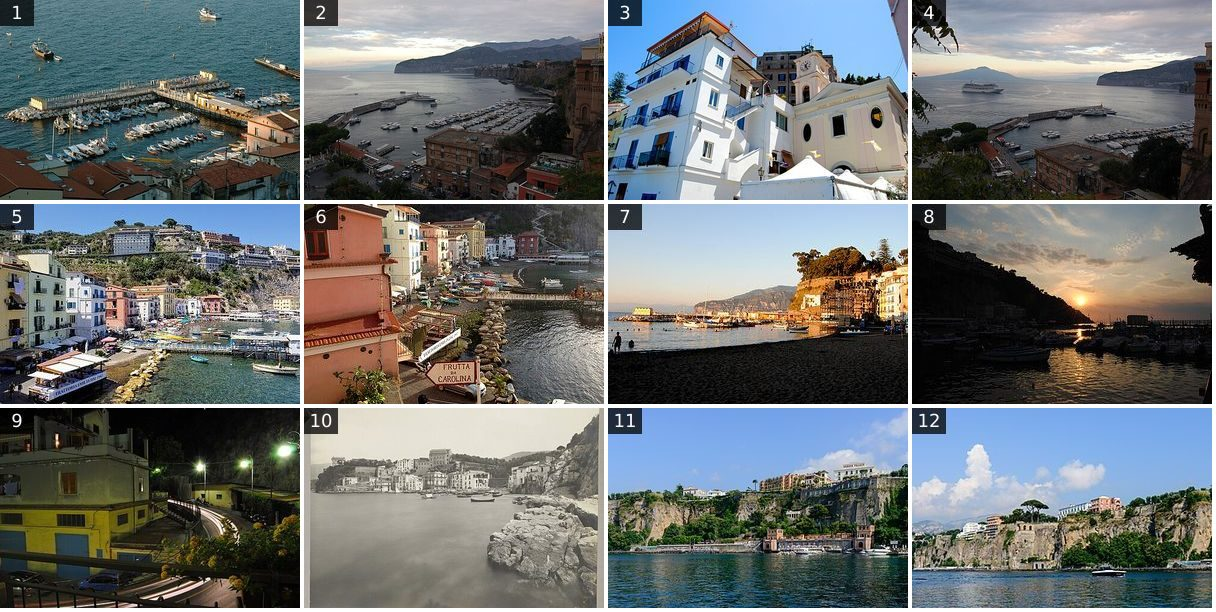
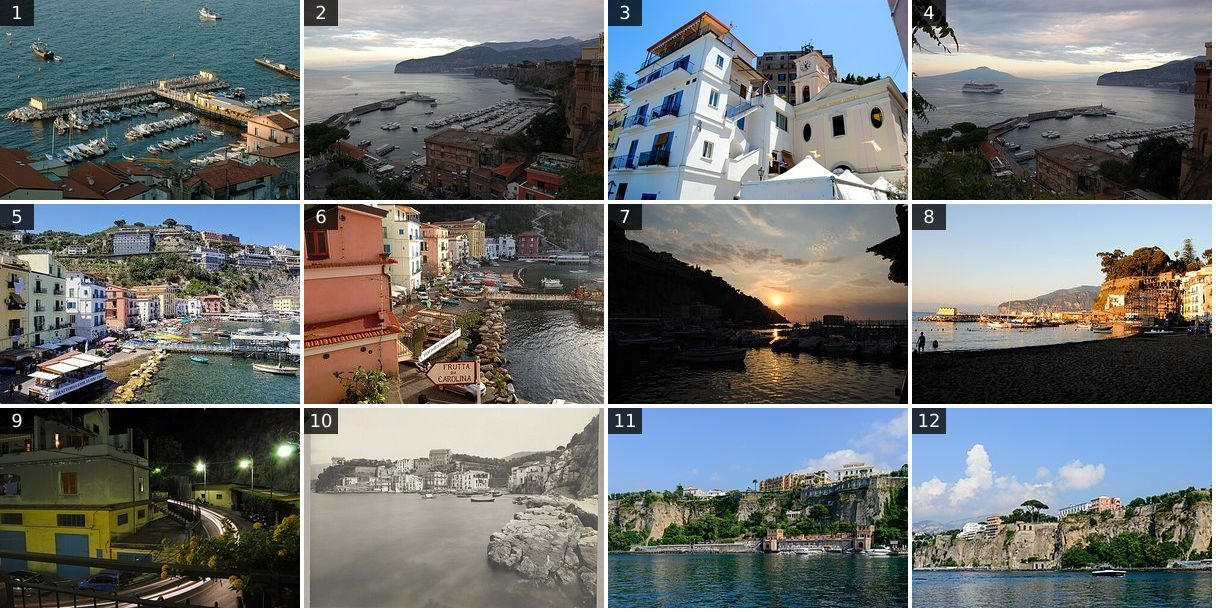
Point the site address at tandemroads.com (#83)
* Point the site address at tandemroads.com

The single-file build's share links, the daily health check, the README
and the runbook now use the custom domain.

Claude-Session: https://claude.ai/code/session_01QK6JCMSwZqRUFzqTtY74cD

* Cover photos: candidates (automated)

---------

Changed region(s): [[0.5, 0.3105, 1.0, 0.683]]

diff --git a/src/share.js b/src/share.js
@@ -3,7 +3,7 @@
 // places in those cities) is packed into the URL after #/t/, so there is no server and nothing
 // to sign up for. Notes, hotel addresses and budgets stay on the device.
 // Loaded before the files in src/app/: top-level code only defines functions.
-const SHARE_HOME = 'https://mindfulmod.github.io/roam/';
+const SHARE_HOME = 'https://tandemroads.com/';
 
 function b64url(bytes) {
   let s = '';

diff --git a/docs/RUNBOOK.md b/docs/RUNBOOK.md
@@ -10,7 +10,7 @@ Written for one person looking after the app. Each section is short and says wha
 
 ## The site is down
 
-1. Open the site yourself: https://mindfulmod.github.io/roam/. If it loads, the check hit a brief outage. Run `Site health` again from the Actions tab (Run workflow) and the issue will close.
+1. Open the site yourself: https://tandemroads.com/. If it loads, the check hit a brief outage. Run `Site health` again from the Actions tab (Run workflow) and the issue will close.
 2. Look at https://www.githubstatus.com. If GitHub Pages is having trouble, wait. Nothing needs doing.
 3. Open the Actions tab and look at the latest `Deploy to GitHub Pages` run. If it is red, go to "A bad change went live" below.
 4. If none of that explains it, ask Claude in the project: "The live site is down, see the open issue."

diff --git a/README.md b/README.md
@@ -53,7 +53,7 @@ or change a city, edit its JSON file in `data/cities/` (add new cities to `cityO
 
 Every push to `main` builds the hosted version and publishes it to GitHub Pages
 (`.github/workflows/pages.yml`). One-time setup: in the repo's **Settings → Pages**, set **Source** to
-**GitHub Actions**. The site is then at `https://mindfulmod.github.io/roam/`.
+**GitHub Actions**. The site is then at `https://tandemroads.com/` (the custom domain is set in the repository's Pages settings; the old `https://mindfulmod.github.io/roam/` address redirects there).
 
 ## Popularity rankings
 
